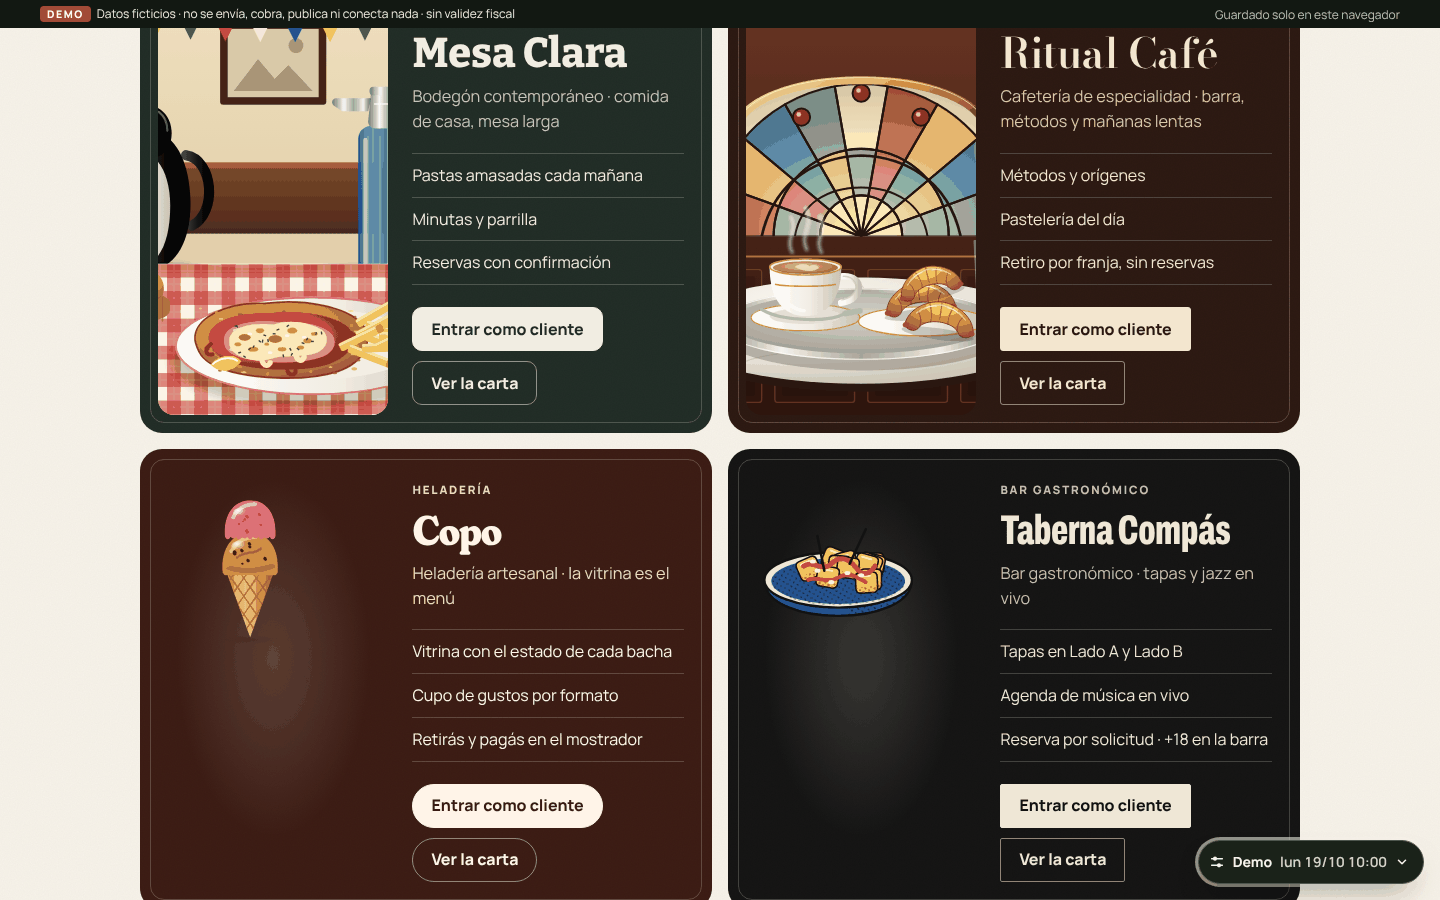
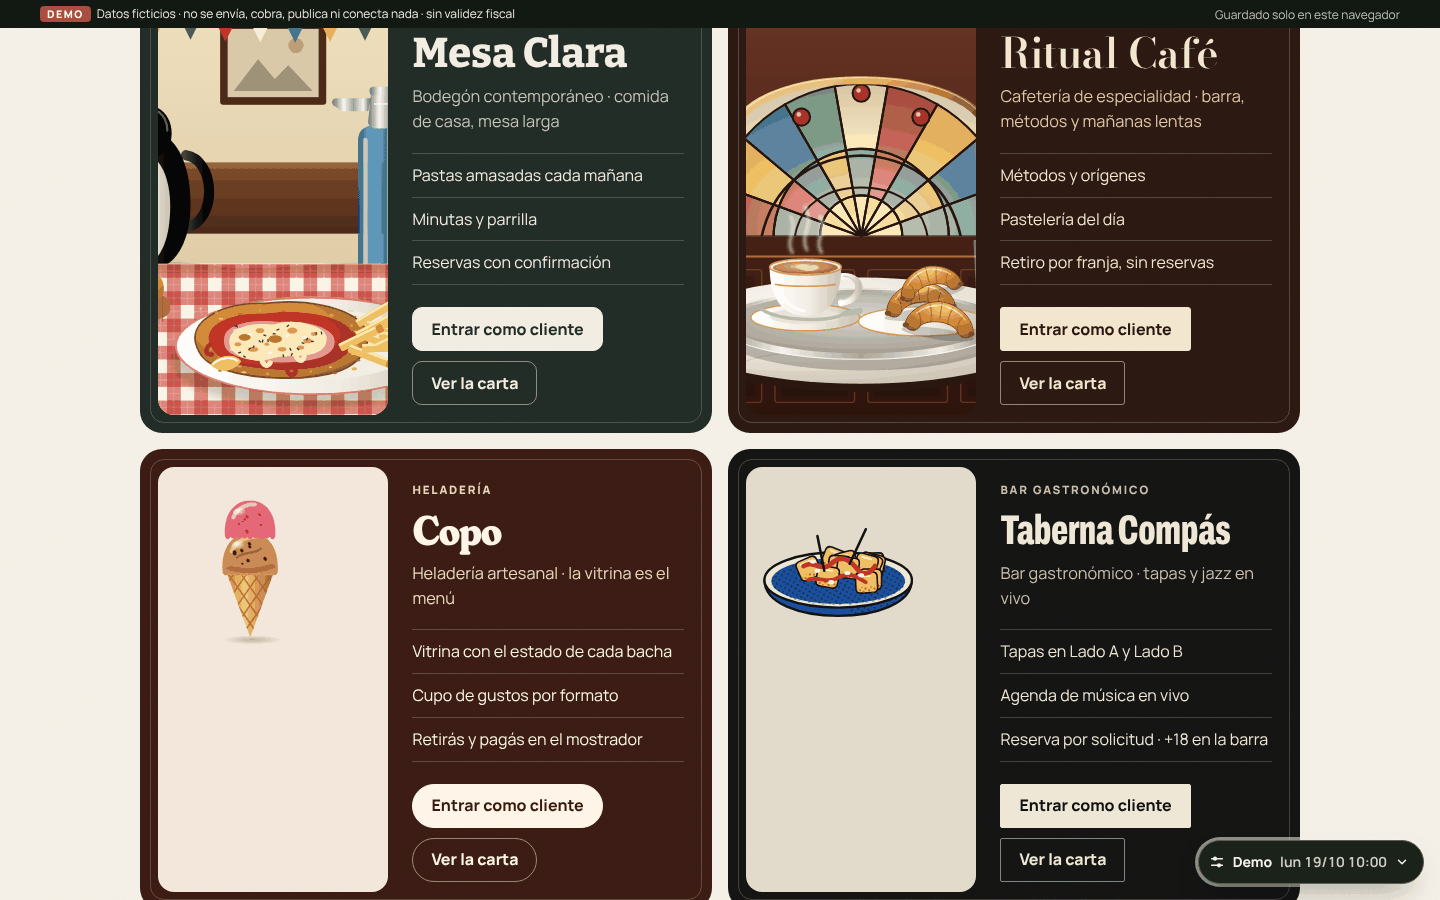
P5-L5: checkpoint, capturas regeneradas y ajustes de vitrina y tapas
Claude-Session: https://claude.ai/code/session_016ewkRTxrjbfPnK1Qbt3w2t

diff --git a/docs/tableflow/checkpoint.md b/docs/tableflow/checkpoint.md
@@ -1,3 +1,67 @@
+# Checkpoint P5-L5 · TableFlow: cinco negocios completos, pago en el local y cinco juegos
+
+> L3 (PR #5) y L4 (PR #6) están en `main`, con CI verde (run 39064515482). Especificación SDD, cambios en lo existente y límites: `p5-spec.md`, sección "L5".
+
+## Identificación
+- Fecha real: 17/10/2026. Rama `claude/tableflow-p5-l5`, creada desde `main` (`c66c6bd`).
+- **Esquema:** la versión detectada al entrar era 2. Sube a **3** con el migrador explícito `MIGRATIONS[2]` (v2 → v3). Solo agrega registros por id y es idempotente; `migrate()` encadena desde cualquier versión guardada.
+
+## Qué se hizo
+- **Dominio:**
+  - `domain/business.ts` define los cinco negocios (`BIZ_IDS`, prefijos y la regex de rutas).
+  - `fixtures/nuevos.ts` arma Copo, Taberna Compás y Brasa Rápida con sedes, franjas, carta, modificadores, insumos, recetas y agenda.
+  - Ritual suma cuatro clásicos. La semilla agrega actividad en curso para los tres negocios nuevos.
+- **Numeración por negocio:** los negocios nuevos usan prefijo propio (`O-BR-001`, `R-TC-001`, `P-BR-001`…). Los folios de Mesa Clara y Ritual Café no cambian.
+- **Pago en el local:** `orderPayment` deriva pendiente o pagado del saldo de caja. Se ve en:
+  - el seguimiento del cliente;
+  - el detalle del pedido en el comercio, con «Cobrar en caja», que abre la cuenta;
+  - la comanda.
+- **UI de los cinco negocios:**
+  - tokens claro/oscuro y tipografías propias;
+  - inicio propio con la ilustración firma de L2b: vitrina de bachas, agenda de música o tablero de números;
+  - portada con cinco tapas;
+  - secciones según el tipo de negocio;
+  - estaciones de cocina tomadas de la carta;
+  - pantalla de números de retiro;
+  - casos y guía del dock;
+  - regalos sin alcohol, bloqueados también en el dominio.
+- **Juegos:**
+  - un juego distinto por negocio, todos dentro del mismo `GameFrame`: inicio, instrucciones, nivel, progreso, pausa, éxito, reintento y salida;
+  - lógica pura en `domain/games.ts`;
+  - teclado y táctil, sin tiempo, "Sin animaciones" además de la preferencia del sistema.
+
+## Pruebas
+- **Nuevas:**
+  - `tests/l5.test.ts` (18): negocios, folios, pago en el local, reglas por negocio, aislamiento, migración v2 → v3 idempotente y alcohol.
+  - `tests/games.test.ts` (9): los cinco juegos y que sus piezas existan.
+  - `e2e/p5-l5.spec.ts` (7): los cinco juegos jugados hasta ganar dos niveles, con pausa (botón y Escape), reintento y salida. También cubre:
+    - café con medialuna, aceptado pero con pago pendiente hasta la caja;
+    - combo de Brasa hasta "listo" en la pantalla de números, sin que aparezca en los otros cuatro negocios;
+    - vitrina y cupo de gustos de Copo;
+    - agenda de Compás;
+    - axe en claro y oscuro, a 1280 y 390 px.
+- **Actualizadas, con el motivo anotado en cada una:**
+  - conteos globales de la semilla (más reservas, pedidos y pagos por la actividad de los negocios nuevos), en unitarios y e2e;
+  - la migración v1, que ahora llega a la v3;
+  - el memotest de P3, reemplazado por la memoria de Ritual Café;
+  - la cobertura de arte, que ahora abarca los cinco negocios;
+  - el contraste, extendido a las tres identidades nuevas.
+- No se quitó ningún test.
+
+## Comandos y resultados
+| Comando | Exit | Resultado |
+|---|---|---|
+| `npx tsc --noEmit` | 0 | sin errores |
+| `npx vitest run` | 0 | 17 archivos, 868 pruebas |
+| `npm run build` | 0 | OK. JS inicial 763 kB (main: 728 kB): suman los datos de los tres negocios. El inicio de los negocios nuevos (7 kB) y los juegos (30 kB) van en chunks diferidos |
+| `npx playwright test` | RESULT_E2E_EXIT | RESULT_E2E |
+| `CAPTURE=1 npx playwright test e2e/screens.spec.ts -g "P5-L5"` | 0 | 35 capturas en `screens/p5-l5/`, cuantizadas a 256 colores: 2,9 MB |
+
+## Siguiente tarea exacta
+PR de L5 a `main`, seguimiento hasta verde y espera del ok de Ignacio. Después, **L6**: growth y asistentes, incluida la fidelización de los tres negocios nuevos.
+
+---
+
 # Checkpoint P5-L4 · TableFlow: arte SVG por identidad, mockups y galería
 
 > L4 se construyó sobre la rama de L3 (PR #5, todavía abierto) porque usa sus tokens. Especificación SDD, revisión de la muestra y límites: `p5-spec.md`, sección "L4".
